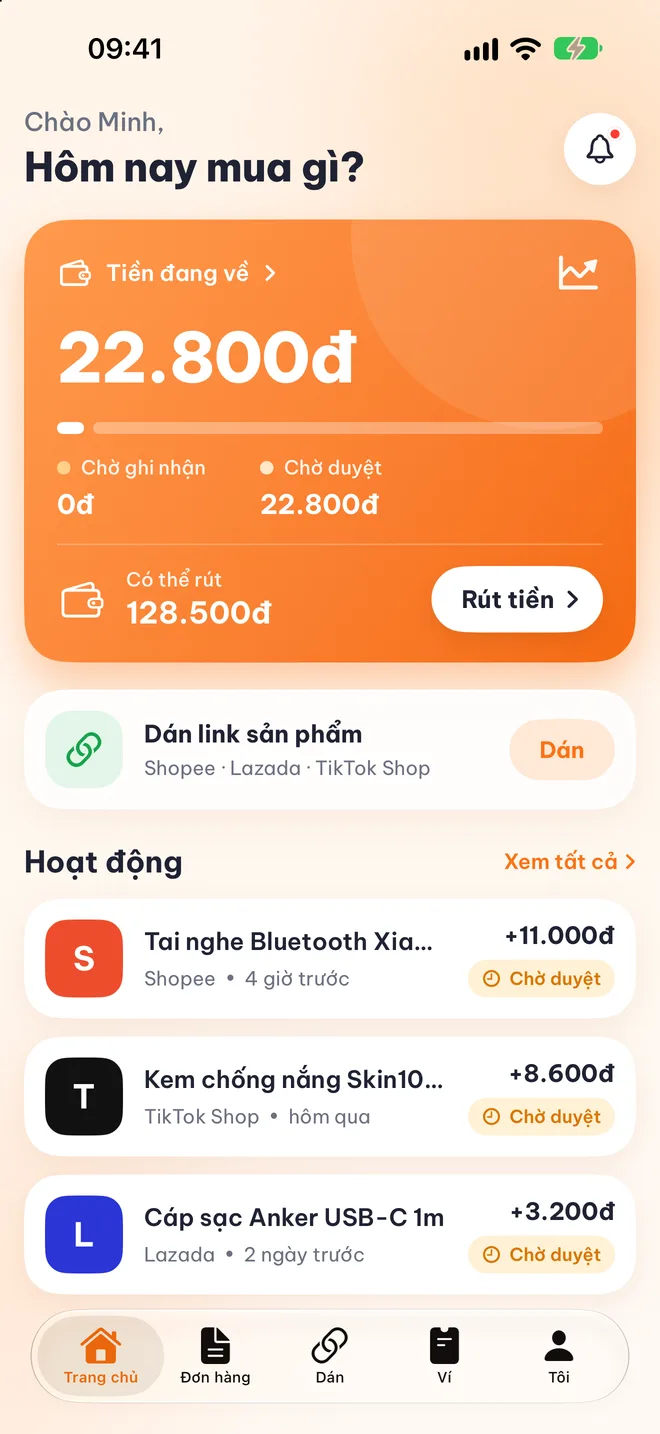
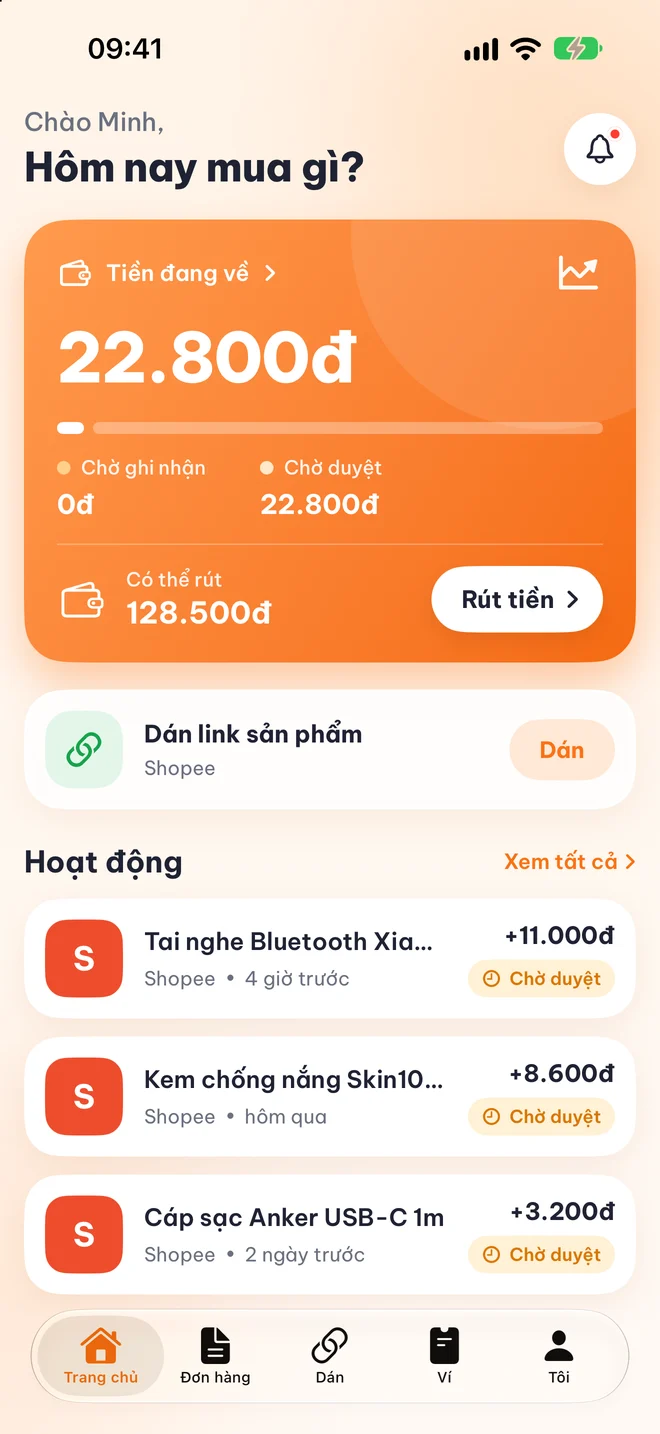
Update landing page

diff --git a/index.html b/index.html
@@ -4,21 +4,21 @@
   <meta charset="utf-8">
   <meta name="viewport" content="width=device-width, initial-scale=1">
   <title>Tiền Về – Mua sắm được hoàn tiền</title>
-  <meta name="description" content="Tiền Về là ứng dụng hoàn tiền khi mua sắm trên Shopee và TikTok Shop: dán link sản phẩm, mua như bình thường, nhận lại một phần tiền về ngân hàng hoặc MoMo.">
+  <meta name="description" content="Tiền Về là ứng dụng hoàn tiền khi mua sắm trên Shopee: dán link sản phẩm, mua như bình thường, nhận lại một phần tiền về ngân hàng hoặc MoMo.">
   <meta property="og:title" content="Tiền Về – Mua sắm được hoàn tiền">
   <meta property="og:description" content="Dán link sản phẩm, mua như bình thường, nhận lại tiền cho mỗi đơn.">
-  <meta property="og:image" content="assets/1_home.webp?v=4">
-  <link rel="icon" href="assets/favicon.png?v=4">
+  <meta property="og:image" content="assets/1_home.webp?v=5">
+  <link rel="icon" href="assets/favicon.png?v=5">
   <link rel="apple-touch-icon" href="assets/apple-touch-icon.png">
   <link rel="preconnect" href="https://fonts.googleapis.com">
   <link rel="preconnect" href="https://fonts.gstatic.com" crossorigin>
   <link href="https://fonts.googleapis.com/css2?family=Inter:wght@400;600;700;800&display=swap" rel="stylesheet">
-  <link rel="stylesheet" href="styles.css?v=4">
+  <link rel="stylesheet" href="styles.css?v=5">
 </head>
 <body>
   <header class="top">
     <div class="wrap">
-      <a class="brand" href="./"><img src="assets/icon.png?v=4" alt="">Tiền Về</a>
+      <a class="brand" href="./"><img src="assets/icon.png?v=5" alt="">Tiền Về</a>
       <nav>
         <a href="#cach-dung" class="hide-sm">Cách dùng</a>
         <a href="#hoi-dap">Hỏi đáp</a>
@@ -32,8 +32,8 @@
       <div class="wrap">
         <div>
           <span class="badge"><i></i>Ứng dụng cho iPhone</span>
-          <h1>Mua Shopee, TikTok Shop<br><em>được hoàn tiền</em></h1>
-          <p class="lead">Dán link sản phẩm vào Tiền Về, mua như bình thường trên Shopee hoặc TikTok Shop và nhận lại một phần tiền cho mỗi đơn hàng hợp lệ.</p>
+          <h1>Mua Shopee<br><em>được hoàn tiền</em></h1>
+          <p class="lead">Dán link sản phẩm vào Tiền Về, mua như bình thường trên Shopee và nhận lại một phần tiền cho mỗi đơn hàng hợp lệ.</p>
           <ul class="hero-points">
             <li>Biết trước số tiền được hoàn trước khi mua</li>
             <li>Theo dõi trạng thái từng đơn minh bạch</li>
@@ -41,7 +41,7 @@
           </ul>
         </div>
         <div class="hero-phone">
-          <img src="assets/app_home.webp?v=4" alt="Màn hình trang chủ ứng dụng Tiền Về" width="660" height="1434">
+          <img src="assets/app_home.webp?v=5" alt="Màn hình trang chủ ứng dụng Tiền Về" width="660" height="1434">
         </div>
       </div>
     </div>
@@ -50,11 +50,11 @@
       <div class="wrap">
         <p class="eyebrow">Cách dùng</p>
         <h2>4 bước để nhận tiền hoàn</h2>
-        <p class="sub">Bạn vẫn mua hàng trên app Shopee, TikTok Shop như mọi khi. Tiền Về chỉ giúp đơn hàng được ghi nhận để bạn nhận lại một phần hoa hồng.</p>
+        <p class="sub">Bạn vẫn mua hàng trên app Shopee như mọi khi. Tiền Về chỉ giúp đơn hàng được ghi nhận để bạn nhận lại một phần hoa hồng.</p>
         <div class="steps">
           <div class="step">
             <h3>Chọn sản phẩm</h3>
-            <p>Mở sản phẩm trên Shopee hoặc TikTok Shop, bấm Chia sẻ rồi chọn Tiền Về, hoặc sao chép liên kết và dán vào tab Dán.</p>
+            <p>Mở sản phẩm trên Shopee, bấm Chia sẻ rồi chọn Tiền Về, hoặc sao chép liên kết và dán vào tab Dán.</p>
           </div>
           <div class="step">
             <h3>Xem tiền hoàn</h3>
@@ -78,12 +78,12 @@
         <h2>Rõ ràng từ lúc mua đến lúc tiền về</h2>
         <p class="sub">Mỗi đơn đều có trạng thái và thời gian dự kiến, kèm thông báo khi đơn được ghi nhận, được duyệt và khi tiền đã chuyển. Sản phẩm đã xem được lưu lại để mua lại nhanh.</p>
         <div class="shots">
-          <figure><img src="assets/1_home.webp?v=4" alt="Trang chủ: dán link sản phẩm" loading="lazy" width="660" height="1434"></figure>
-          <figure><img src="assets/2_link_result.webp?v=4" alt="Số tiền hoàn ước tính trước khi mua" loading="lazy" width="660" height="1434"></figure>
-          <figure><img src="assets/3_orders.webp?v=4" alt="Theo dõi đơn hàng" loading="lazy" width="660" height="1434"></figure>
-          <figure><img src="assets/4_wallet.webp?v=4" alt="Ví và rút tiền" loading="lazy" width="660" height="1434"></figure>
-          <figure><img src="assets/5_withdraw.webp?v=4" alt="Lệnh rút tiền có giờ dự kiến" loading="lazy" width="660" height="1434"></figure>
-          <figure><img src="assets/6_paste.webp?v=4" alt="Dán link sản phẩm" loading="lazy" width="660" height="1434"></figure>
+          <figure><img src="assets/1_home.webp?v=5" alt="Trang chủ: dán link sản phẩm" loading="lazy" width="660" height="1434"></figure>
+          <figure><img src="assets/2_link_result.webp?v=5" alt="Số tiền hoàn ước tính trước khi mua" loading="lazy" width="660" height="1434"></figure>
+          <figure><img src="assets/3_orders.webp?v=5" alt="Theo dõi đơn hàng" loading="lazy" width="660" height="1434"></figure>
+          <figure><img src="assets/4_wallet.webp?v=5" alt="Ví và rút tiền" loading="lazy" width="660" height="1434"></figure>
+          <figure><img src="assets/5_withdraw.webp?v=5" alt="Lệnh rút tiền có giờ dự kiến" loading="lazy" width="660" height="1434"></figure>
+          <figure><img src="assets/6_paste.webp?v=5" alt="Dán link sản phẩm" loading="lazy" width="660" height="1434"></figure>
         </div>
       </div>
     </section>
@@ -119,8 +119,8 @@
           <p>Đơn có thể không được ghi nhận nếu bạn mua món đã có sẵn trong giỏ từ trước, bấm link khác trước khi thanh toán, hoặc đơn bị huỷ, trả hàng. Một số sản phẩm cũng không nằm trong chương trình tiếp thị liên kết của người bán.</p>
         </details>
         <details>
-          <summary>Tiền Về có phải ứng dụng của Shopee hay TikTok không?</summary>
-          <p>Không. Tiền Về là ứng dụng độc lập, tham gia chương trình tiếp thị liên kết thông qua mạng affiliate. Tiền Về không liên kết, không được tài trợ hay xác nhận bởi Shopee hay TikTok.</p>
+          <summary>Tiền Về có phải ứng dụng của Shopee không?</summary>
+          <p>Không. Tiền Về là ứng dụng độc lập, tham gia chương trình Shopee Affiliate. Tiền Về không liên kết, không được tài trợ hay xác nhận bởi Shopee.</p>
         </details>
       </div>
     </section>
@@ -143,7 +143,7 @@
         <a href="terms.html">Điều khoản sử dụng</a>
         <a href="support.html">Hỗ trợ</a>
       </nav>
-      <p class="disclaimer">Shopee, TikTok và TikTok Shop là nhãn hiệu của chủ sở hữu tương ứng. Tiền Về là ứng dụng độc lập, không liên kết với các sàn thương mại điện tử.</p>
+      <p class="disclaimer">Shopee là nhãn hiệu của chủ sở hữu tương ứng. Tiền Về là ứng dụng độc lập, không liên kết với Shopee.</p>
     </div>
   </footer>
 </body>

diff --git a/terms.html b/terms.html
@@ -30,7 +30,7 @@
 
     <h2>1. Dịch vụ</h2>
     <p>Tiền Về tạo link tiếp thị liên kết cho sản phẩm bạn muốn mua. Khi bạn mua qua link này và đơn hàng hợp lệ, sàn thương mại điện tử trả hoa hồng cho Tiền Về thông qua mạng tiếp thị liên kết. Tiền Về chia lại cho bạn một phần hoa hồng đó ("tiền hoàn"). Giá sản phẩm bạn thanh toán không thay đổi.</p>
-    <p>Tiền Về là ứng dụng độc lập, không liên kết, không được tài trợ hay xác nhận bởi Shopee, TikTok, TikTok Shop hay bất kỳ sàn thương mại điện tử nào. Việc mua bán, giao hàng, đổi trả do sàn và người bán chịu trách nhiệm.</p>
+    <p>Tiền Về là ứng dụng độc lập, không liên kết, không được tài trợ hay xác nhận bởi Shopee hay bất kỳ sàn thương mại điện tử nào. Việc mua bán, giao hàng, đổi trả do sàn và người bán chịu trách nhiệm.</p>
 
     <h2>2. Tài khoản</h2>
     <ul>

diff --git a/support.html b/support.html
@@ -32,7 +32,7 @@
 
     <h2>Câu hỏi thường gặp</h2>
     <h3>Tiền Về hoạt động thế nào?</h3>
-    <p>Bạn dán link sản phẩm (Shopee, TikTok Shop) vào ứng dụng để nhận link mua hàng. Khi bạn mua qua link này và sàn duyệt đơn, sàn trả hoa hồng cho Tiền Về và chúng tôi chia lại cho bạn phần lớn số đó. Giá bạn trả không đổi.</p>
+    <p>Bạn dán link sản phẩm (Shopee) vào ứng dụng để nhận link mua hàng. Khi bạn mua qua link này và sàn duyệt đơn, sàn trả hoa hồng cho Tiền Về và chúng tôi chia lại cho bạn phần lớn số đó. Giá bạn trả không đổi.</p>
     <h3>Bao lâu thì tiền về ví?</h3>
     <p>Sau khi sàn xác nhận đơn, thường 30–45 ngày (sau khi hết hạn đổi trả). Bạn theo dõi từng bước ở tab <em>Đơn hàng</em>.</p>
     <h3>Đơn của tôi không hiện trong ứng dụng?</h3>
